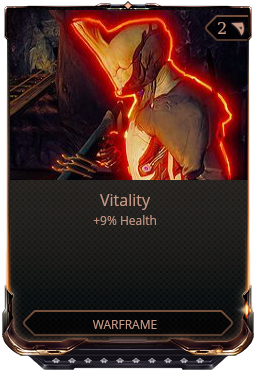
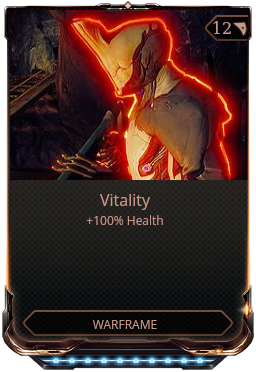
fix: denote aura's with a `+` to show they increase capacity

Changed region(s): [[0.1562, 0.9462, 0.8438, 1.0], [0.3438, 0.5618, 0.6562, 0.621], [0.8438, 0.0591, 0.9688, 0.1183]]

diff --git a/src/drawers.ts b/src/drawers.ts
@@ -157,11 +157,28 @@ export const drawBackground = async (mod: Mod, width: number, height: number, ra
 
   if (mod.baseDrain) {
     context.font = '16px "Khula"';
-    context.fillText(mod.baseDrain?.toString(), 222, 108);
+
+    let drain = mod.baseDrain;
+    if (drain < 0) {
+      drain = Math.abs(drain);
+      context.fillText(`+${drain + rank}`, 222, 108);
+    } else {
+      context.fillText((drain + rank).toString(), 222, 108);
+    }
   }
 
   const polarity = await drawPolarity(tier, mod.polarity);
-  context.drawImage(await loadImage(polarity), 230, 101, 16, 16);
+  const polaritySize = 16; // It's a square
+  const polarityY = 101;
+
+  const drain = mod.baseDrain;
+  if (drain && drain < 0) {
+    context.drawImage(await loadImage(polarity), 235, polarityY, polaritySize, polaritySize);
+  } else if (drain + rank >= 10) {
+    context.drawImage(await loadImage(polarity), 232, polarityY, polaritySize, polaritySize);
+  } else {
+    context.drawImage(await loadImage(polarity), 230, polarityY, polaritySize, polaritySize);
+  }
 
   return canvas.encode('png');
 };

diff --git a/tests/generator.spec.ts b/tests/generator.spec.ts
@@ -26,7 +26,9 @@ describe('Generate a mod', () => {
       const mod = find.findItem(mods[i]) as Mod;
       if (!mod) continue;
       const isRiven = mod.name?.includes('Riven');
-      const modCanvas = isRiven ? await generateRivenMod(mod as RivenMod) : await generateBasicMod(mod, 0);
+      const modCanvas = isRiven
+        ? await generateRivenMod(mod as RivenMod)
+        : await generateBasicMod(mod, mod.fusionLimit);
       if (!modCanvas) assert.equal(true, false, 'Failed to generate mod');
 
       writeFileSync(join('.', 'assets', 'tests', `${mod.name}.png`), modCanvas);
